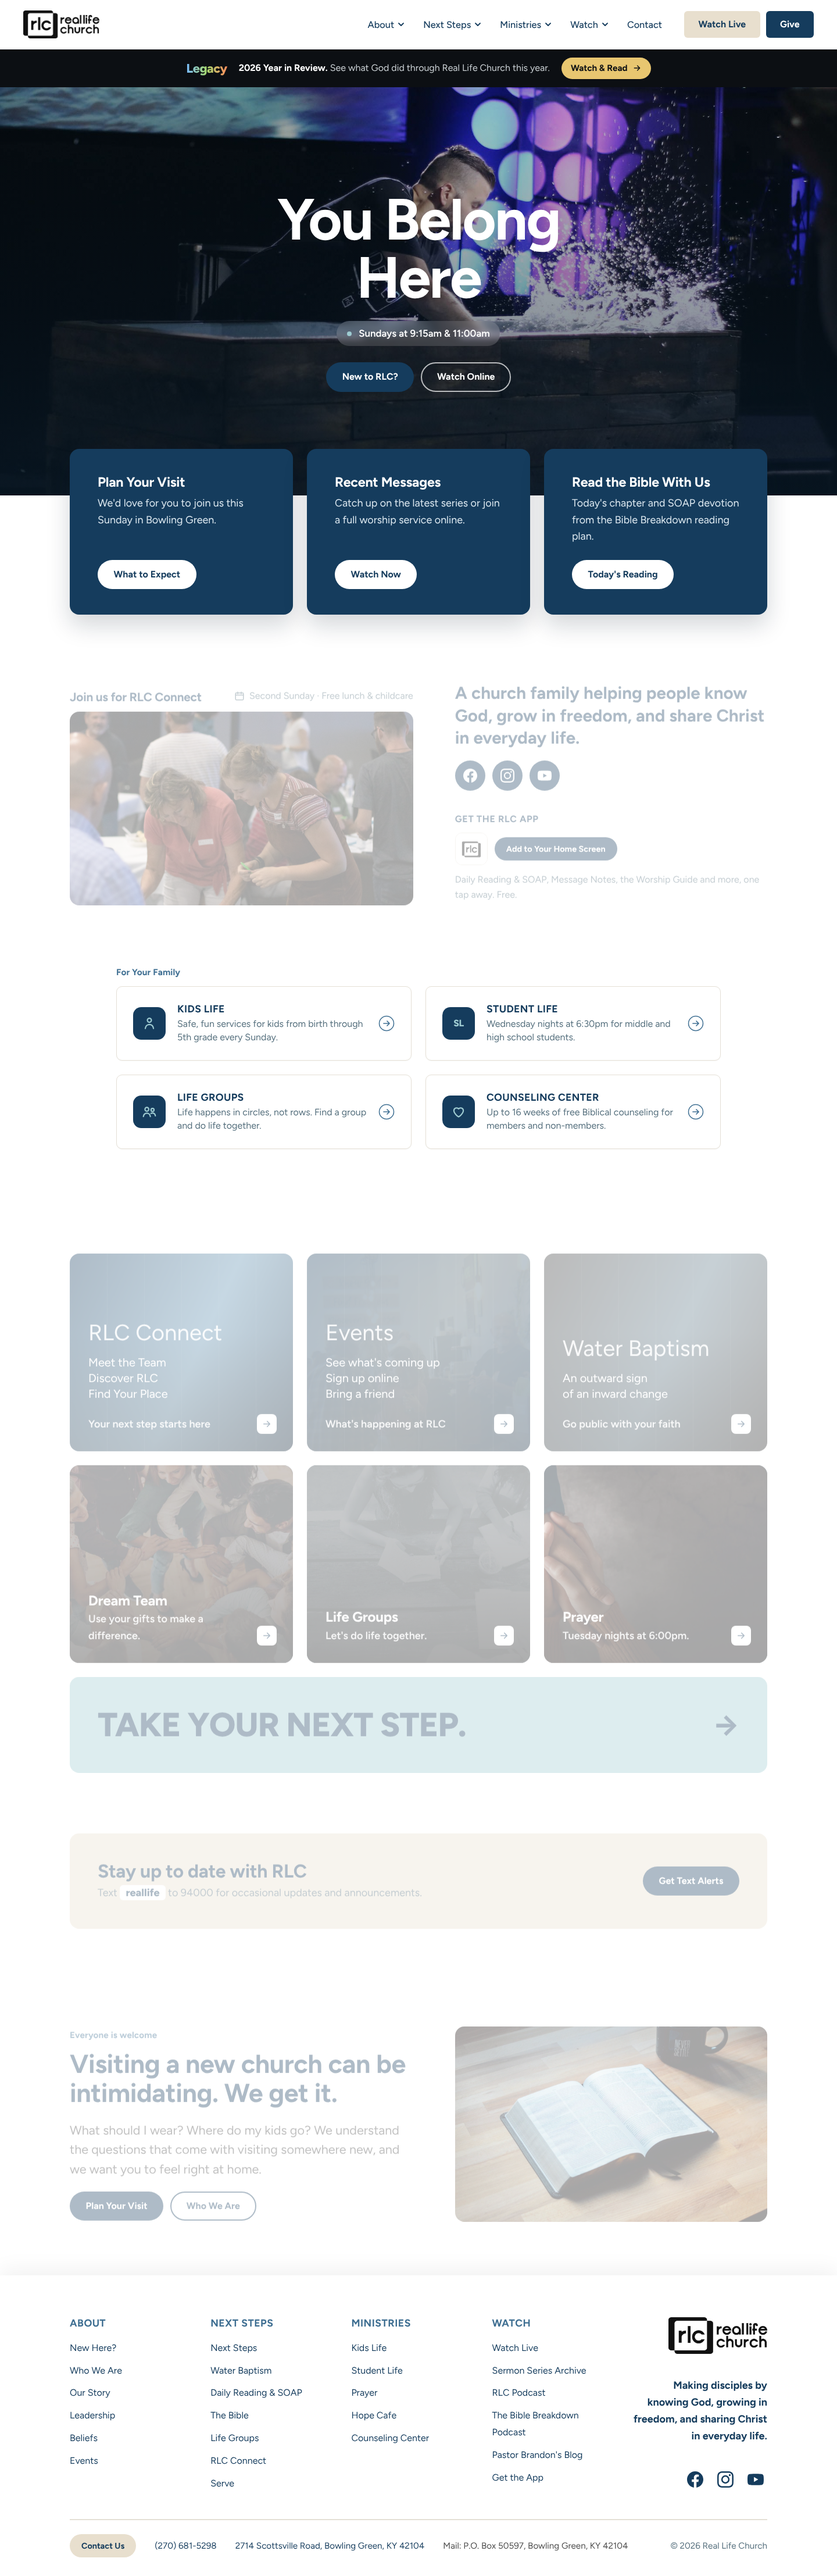
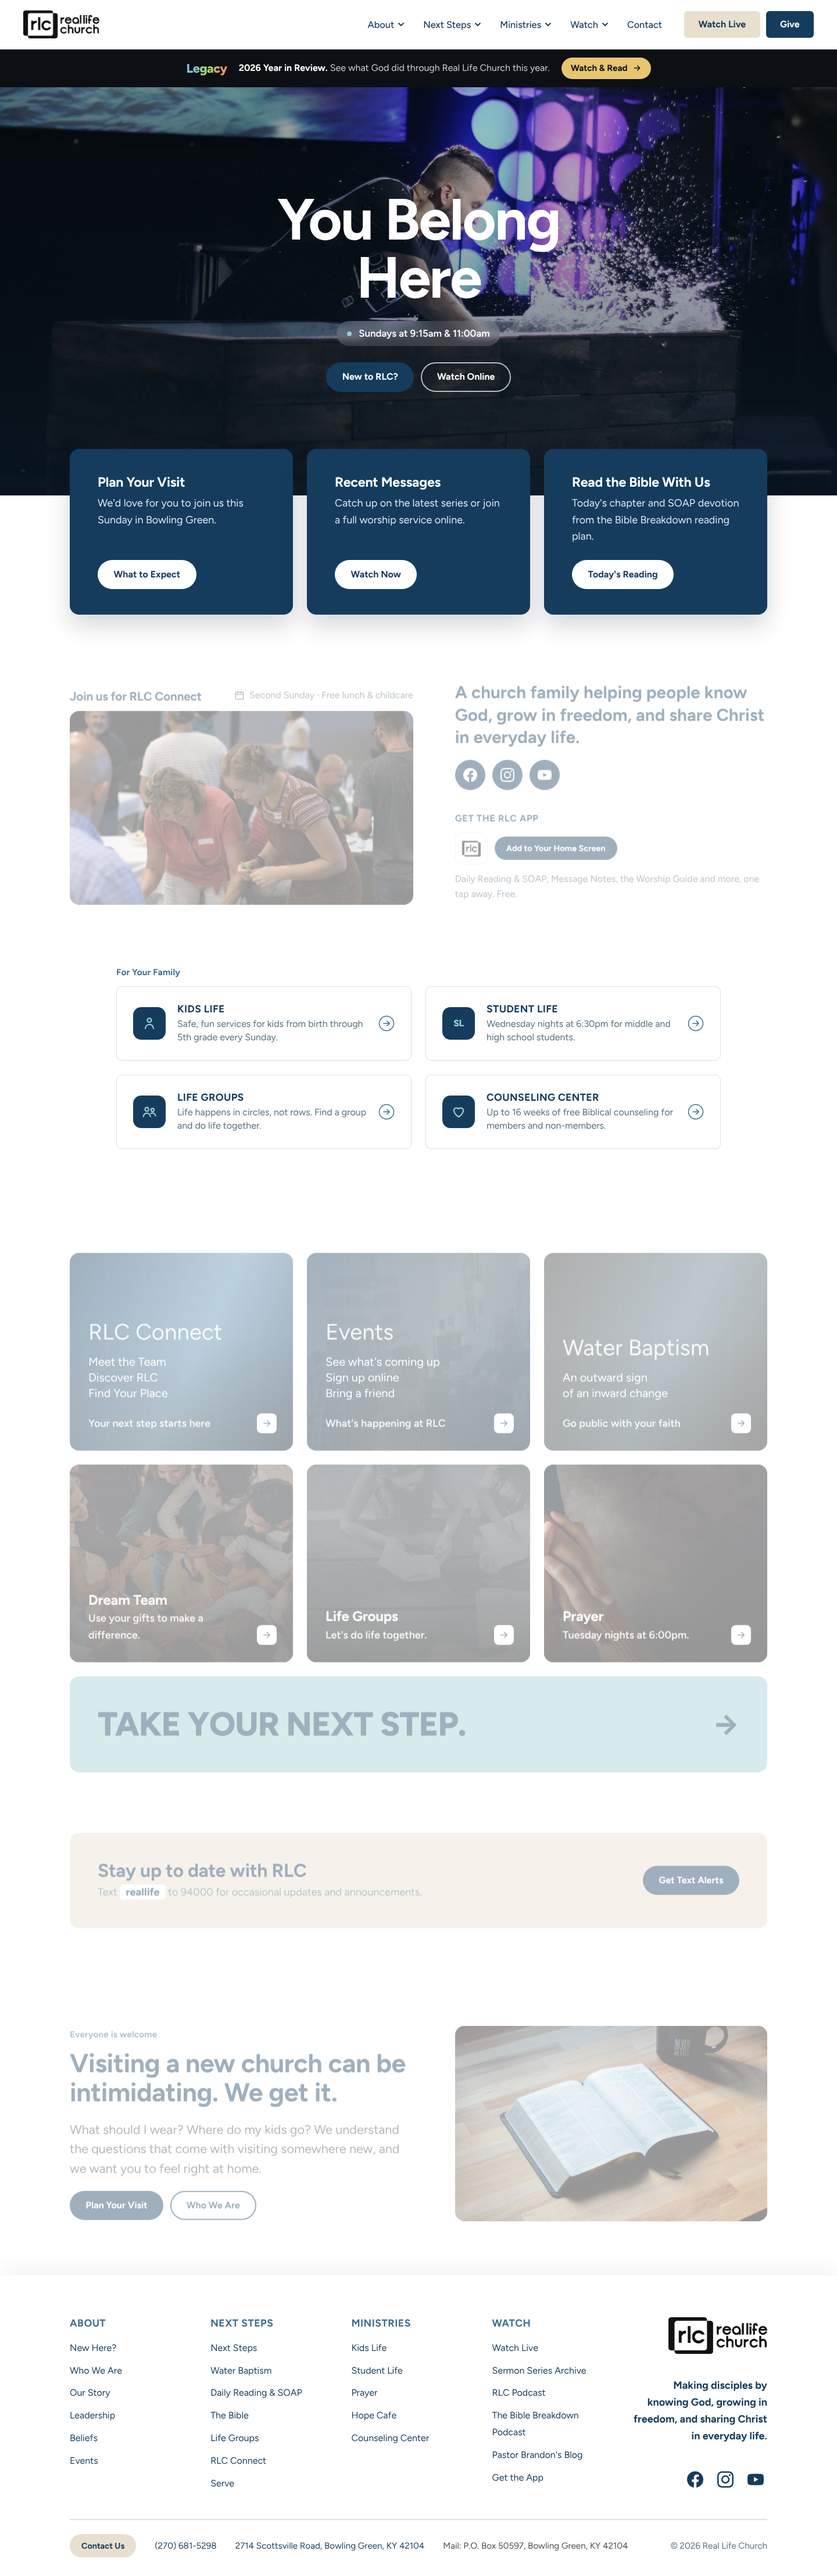
Get the App: Install button always works (prompt where supported, otherwise jumps to the steps)
Claude-Session: https://claude.ai/code/session_01NCmtY7FYkU67mEFxm6JRdu

diff --git a/assets/js/app.js b/assets/js/app.js
@@ -18,17 +18,33 @@
     var w = el.getAttribute("data-show");
     el.hidden = !((w === "installed" && standalone) || (w === "ios" && isIOS && !standalone) || (w === "android" && !isIOS && !standalone));
   });
+  // The button always shows. Where the browser can install directly (Chrome on
+  // Android and computers) it opens the install prompt; everywhere else (iPhone,
+  // Samsung Internet, in-app browsers) it jumps to the steps for that phone.
   var deferred = null;
   window.addEventListener("beforeinstallprompt", function (e) {
     e.preventDefault();
     deferred = e;
-    document.querySelectorAll("[data-install]").forEach(function (b) { b.hidden = false; });
   });
+  function showSteps() {
+    var card = document.querySelector('[data-show]:not([hidden])');
+    if (!card) return;
+    card.scrollIntoView({ behavior: "smooth", block: "center" });
+    card.classList.remove("flash");
+    void card.offsetWidth;
+    card.classList.add("flash");
+  }
   document.querySelectorAll("[data-install]").forEach(function (b) {
+    if (standalone) return;  // already using the app
+    b.hidden = false;
     b.addEventListener("click", function () {
-      if (!deferred) return;
-      deferred.prompt();
-      deferred.userChoice.finally(function () { deferred = null; b.hidden = true; });
+      if (!deferred) { showSteps(); return; }
+      var d = deferred;
+      deferred = null;
+      try {
+        d.prompt();
+        d.userChoice.then(function (c) { if (c && c.outcome !== "accepted") showSteps(); }, showSteps);
+      } catch (err) { showSteps(); }
     });
   });
   window.addEventListener("appinstalled", function () {

diff --git a/app/index.html b/app/index.html
@@ -113,7 +113,7 @@
       <h2>On Android</h2>
       <ol class="install-steps">
         <li><span class="num">1</span><div>Open <strong>experiencerlc.com</strong> in <strong>Chrome</strong>.</div></li>
-        <li><span class="num">2</span><div>Tap <strong>Install the App</strong> above, or tap the <strong>⋮</strong> menu at the top right.</div></li>
+        <li><span class="num">2</span><div>Tap the <strong>⋮</strong> menu at the top right.</div></li>
         <li><span class="num">3</span><div>Choose <strong>Install app</strong> (or <strong>Add to Home screen</strong>).</div></li>
         <li><span class="num">4</span><div>Tap <strong>Install</strong>. The RLC icon appears with your other apps.</div></li>
       </ol>

diff --git a/preview/app/index.html b/preview/app/index.html
@@ -114,7 +114,7 @@
       <h2>On Android</h2>
       <ol class="install-steps">
         <li><span class="num">1</span><div>Open <strong>experiencerlc.com</strong> in <strong>Chrome</strong>.</div></li>
-        <li><span class="num">2</span><div>Tap <strong>Install the App</strong> above, or tap the <strong>⋮</strong> menu at the top right.</div></li>
+        <li><span class="num">2</span><div>Tap the <strong>⋮</strong> menu at the top right.</div></li>
         <li><span class="num">3</span><div>Choose <strong>Install app</strong> (or <strong>Add to Home screen</strong>).</div></li>
         <li><span class="num">4</span><div>Tap <strong>Install</strong>. The RLC icon appears with your other apps.</div></li>
       </ol>

diff --git a/_src/pages/app.html b/_src/pages/app.html
@@ -34,7 +34,7 @@
       <h2>On Android</h2>
       <ol class="install-steps">
         <li><span class="num">1</span><div>Open <strong>experiencerlc.com</strong> in <strong>Chrome</strong>.</div></li>
-        <li><span class="num">2</span><div>Tap <strong>Install the App</strong> above, or tap the <strong>⋮</strong> menu at the top right.</div></li>
+        <li><span class="num">2</span><div>Tap the <strong>⋮</strong> menu at the top right.</div></li>
         <li><span class="num">3</span><div>Choose <strong>Install app</strong> (or <strong>Add to Home screen</strong>).</div></li>
         <li><span class="num">4</span><div>Tap <strong>Install</strong>. The RLC icon appears with your other apps.</div></li>
       </ol>

diff --git a/assets/css/style.css b/assets/css/style.css
@@ -811,3 +811,7 @@ body.bare { background: var(--bg-soft); }
 .n-link-go { font-size: 1.2em; }
 .n-extra .n-link:last-child { margin-bottom: 0; }
 html.lights-down .n-link { background: rgba(255,255,255,.08); color: #fff; }
+/* Get the App: the steps card glows when "Install the App" jumps to it */
+.install-card.flash { animation: install-flash 1.6s ease; }
+@keyframes install-flash { 0%, 100% { box-shadow: 0 0 0 0 rgba(91,141,174,0); } 25% { box-shadow: 0 0 0 6px rgba(91,141,174,.55); } }
+@media (prefers-reduced-motion: reduce) { .install-card.flash { animation: none; outline: 3px solid var(--steel, #5B8DAE); } }
